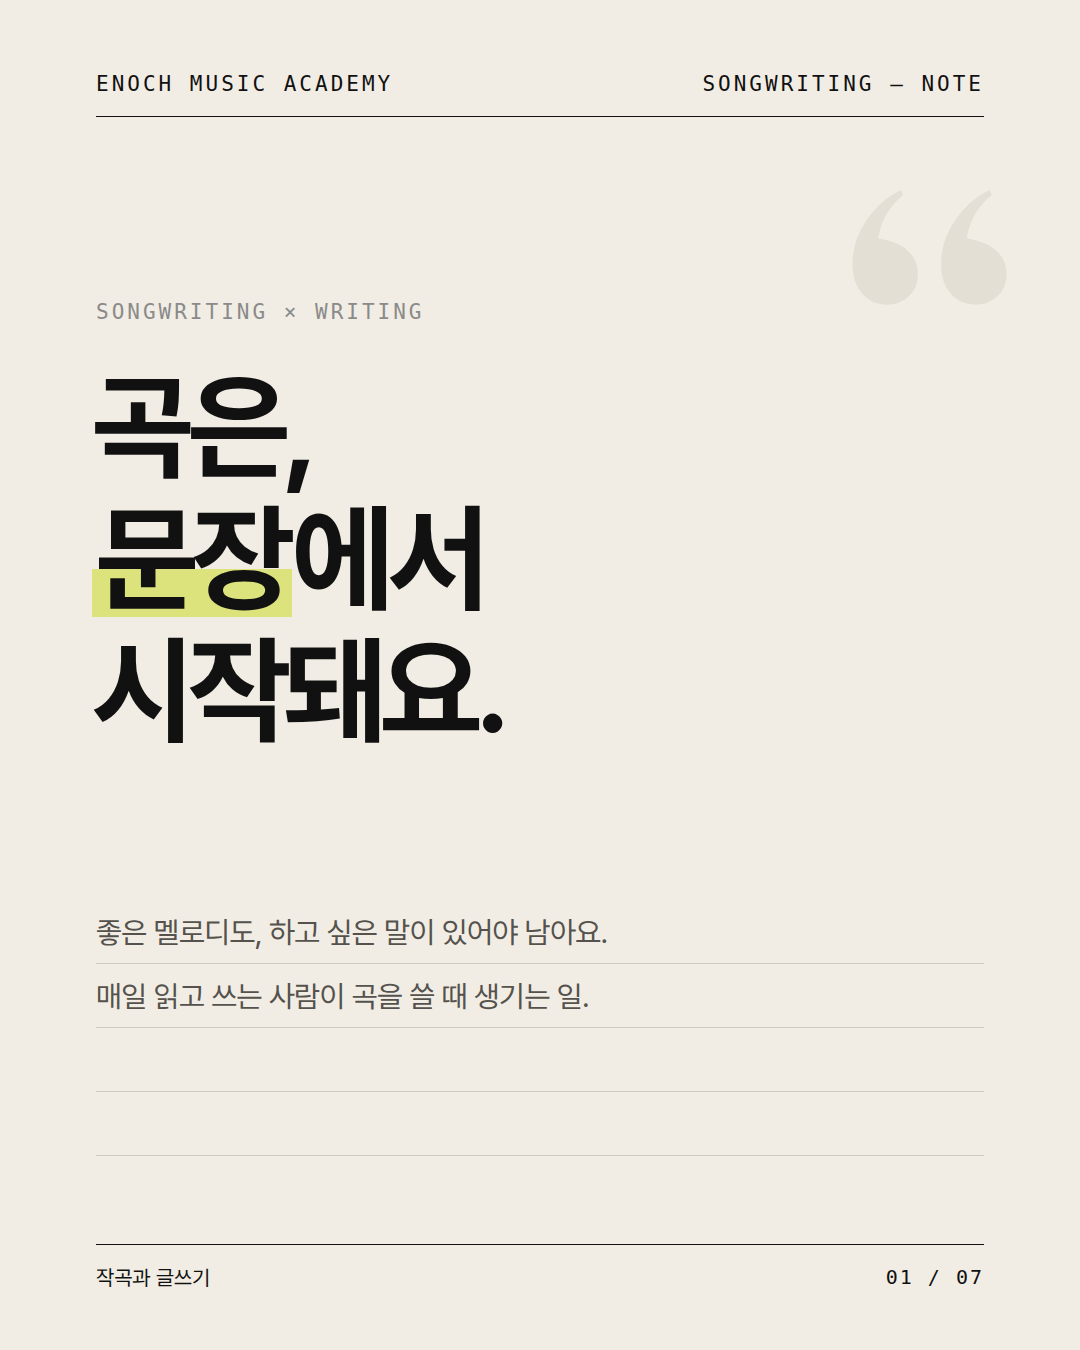
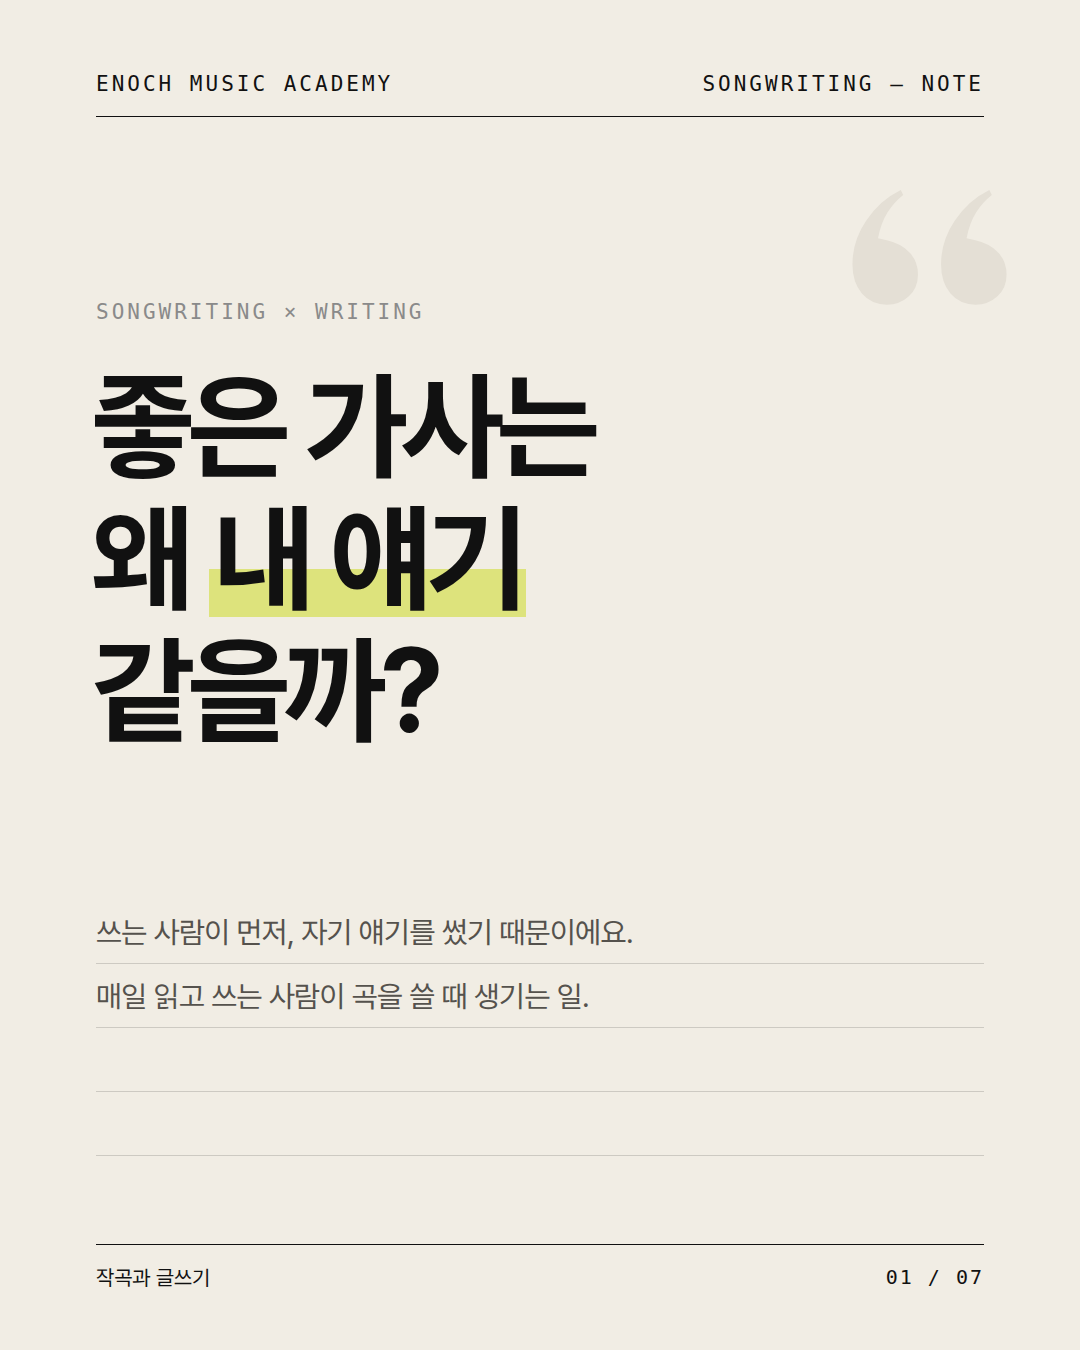
작곡과 글쓰기: 1장 카피를 '좋은 가사는 왜 내 얘기 같을까?'로
Claude-Session: https://claude.ai/code/session_01HGbZvgMeYrbU7mY8bwfjyb

Changed region(s): [[0.0611, 0.28, 0.55, 0.56], [0.0917, 0.6844, 0.5806, 0.7156]]

diff --git a/output/작곡_글쓰기의힘/deck.html b/output/작곡_글쓰기의힘/deck.html
@@ -45,13 +45,13 @@
   <div class="glow" style="left:-300px;top:900px;width:900px;height:900px"></div>
   <div class="ring" style="left:760px;top:120px;width:620px;height:620px"></div>
   <div class="top"><div class="wm">enoch</div><div class="tag">작곡 노트</div></div>
-  <div class="hl">곡은,<br>문장에서 시작돼요.</div>
+  <div class="hl">좋은 가사는<br>왜 내 얘기 같을까?</div>
   <div class="card" style="top:560px">
     <div class="ch"><div class="wm">enoch</div><div class="rd">글 읽기</div></div>
     <div class="meta">SONGWRITING · NOTE</div>
     <div class="ct">작곡과 글쓰기</div>
     <div class="chips"><span><i style="background:var(--lime)">R</i>READ</span><span><i style="background:#A9C3EE">W</i>WRITE</span></div>
-    <div class="body">좋은 멜로디도, 하고 싶은 말이 있어야 남아요.<br>매일 읽고 쓰는 사람이 곡을 쓸 때 생기는 일.</div>
+    <div class="body">쓰는 사람이 먼저, 자기 얘기를 썼기 때문이에요.<br>매일 읽고 쓰는 사람이 곡을 쓸 때 생기는 일.</div>
     <div class="btns"><span class="b1">저장</span><span class="b2">공유하기 ↗</span></div>
   </div>
   <div class="foot"><span>나만의 진짜 소리를 찾는 곳</span><span>01 / 07</span></div>

diff --git a/output/작곡_글쓰기의힘/deck_editorial.html b/output/작곡_글쓰기의힘/deck_editorial.html
@@ -72,13 +72,13 @@
   <div class="glow" style="left:-300px;top:900px;width:900px;height:900px"></div>
   <div class="ring" style="left:760px;top:120px;width:620px;height:620px"></div>
   <div class="top"><div class="wm">enoch</div><div class="tag">Songwriting — Note</div></div>
-  <div class="hl">곡은,<br>문장에서 시작돼요.</div>
+  <div class="hl">좋은 가사는<br>왜 내 얘기 같을까?</div>
   <div class="card" style="top:560px">
     <div class="ch"><div class="wm">enoch</div><div class="rd">글 읽기</div></div>
     <div class="meta">SONGWRITING · NOTE</div>
     <div class="ct">작곡과 글쓰기</div>
     <div class="chips"><span><i style="background:var(--lime)">R</i>READ</span><span><i style="background:#A9C3EE">W</i>WRITE</span></div>
-    <div class="body">좋은 멜로디도, 하고 싶은 말이 있어야 남아요.<br>매일 읽고 쓰는 사람이 곡을 쓸 때 생기는 일.</div>
+    <div class="body">쓰는 사람이 먼저, 자기 얘기를 썼기 때문이에요.<br>매일 읽고 쓰는 사람이 곡을 쓸 때 생기는 일.</div>
     <div class="btns"><span class="b1">저장</span><span class="b2">공유하기 ↗</span></div>
   </div>
   <div class="foot"><span>작곡과 글쓰기</span><span>01 / 07</span></div>

diff --git a/output/작곡_글쓰기의힘/deck_note.html b/output/작곡_글쓰기의힘/deck_note.html
@@ -28,8 +28,8 @@ mark{background:linear-gradient(transparent 58%,var(--lime) 58%,var(--lime) 92%,
   <div class="hd"><span>ENOCH MUSIC ACADEMY</span><span>SONGWRITING — NOTE</span></div>
   <div class="q" style="right:60px;top:140px">“</div>
   <div class="k" style="position:absolute;left:96px;top:300px">Songwriting × Writing</div>
-  <div class="h" style="position:absolute;left:92px;top:360px;font-size:118px;letter-spacing:-6px;line-height:1.12">곡은,<br><mark>문장</mark>에서<br>시작돼요.</div>
-  <div class="note" style="top:900px;height:256px"><p>좋은 멜로디도, 하고 싶은 말이 있어야 남아요.<br>매일 읽고 쓰는 사람이 곡을 쓸 때 생기는 일.</p></div>
+  <div class="h" style="position:absolute;left:92px;top:360px;font-size:118px;letter-spacing:-6px;line-height:1.12">좋은 가사는<br>왜 <mark>내 얘기</mark><br>같을까?</div>
+  <div class="note" style="top:900px;height:256px"><p>쓰는 사람이 먼저, 자기 얘기를 썼기 때문이에요.<br>매일 읽고 쓰는 사람이 곡을 쓸 때 생기는 일.</p></div>
   <div class="ft"><span>작곡과 글쓰기</span><span>01 / 07</span></div>
 </section>
 

diff --git a/output/작곡_글쓰기의힘/caption.md b/output/작곡_글쓰기의힘/caption.md
@@ -1,7 +1,7 @@
-# 캡션: 작곡 — 곡은, 문장에서 시작돼요
+# 캡션: 작곡 — 좋은 가사는 왜 내 얘기 같을까
 
 ## 본문
-곡은, 문장에서 시작돼요.
+좋은 가사는 왜 내 얘기 같을까요?
 
 같은 코드 진행으로도 수많은 곡이 만들어지지만, 곡을 다르게 만드는 건 그 안에 담긴 이야기예요. ENOCH 작곡 수업은 모든 과정이 1:1이라, 한 사람의 이야기에 맞춰 수업해요.
 

diff --git a/output/작곡_글쓰기의힘/brief.md b/output/작곡_글쓰기의힘/brief.md
@@ -7,7 +7,7 @@
 
 | 장 | 메시지 |
 |---|---|
-| 1 | 곡은, 문장에서 시작돼요 (표지) |
+| 1 | 좋은 가사는 왜 내 얘기 같을까? (표지) |
 | 2 | 멜로디만큼, 말이 필요해요 — 같은 코드, 다른 곡 |
 | 3 | 읽는 만큼, 쓸 수 있는 말이 늘어나요 |
 | 4 | 매일 쓰면, 내 말투가 생겨요 — 하루 세 줄 |
